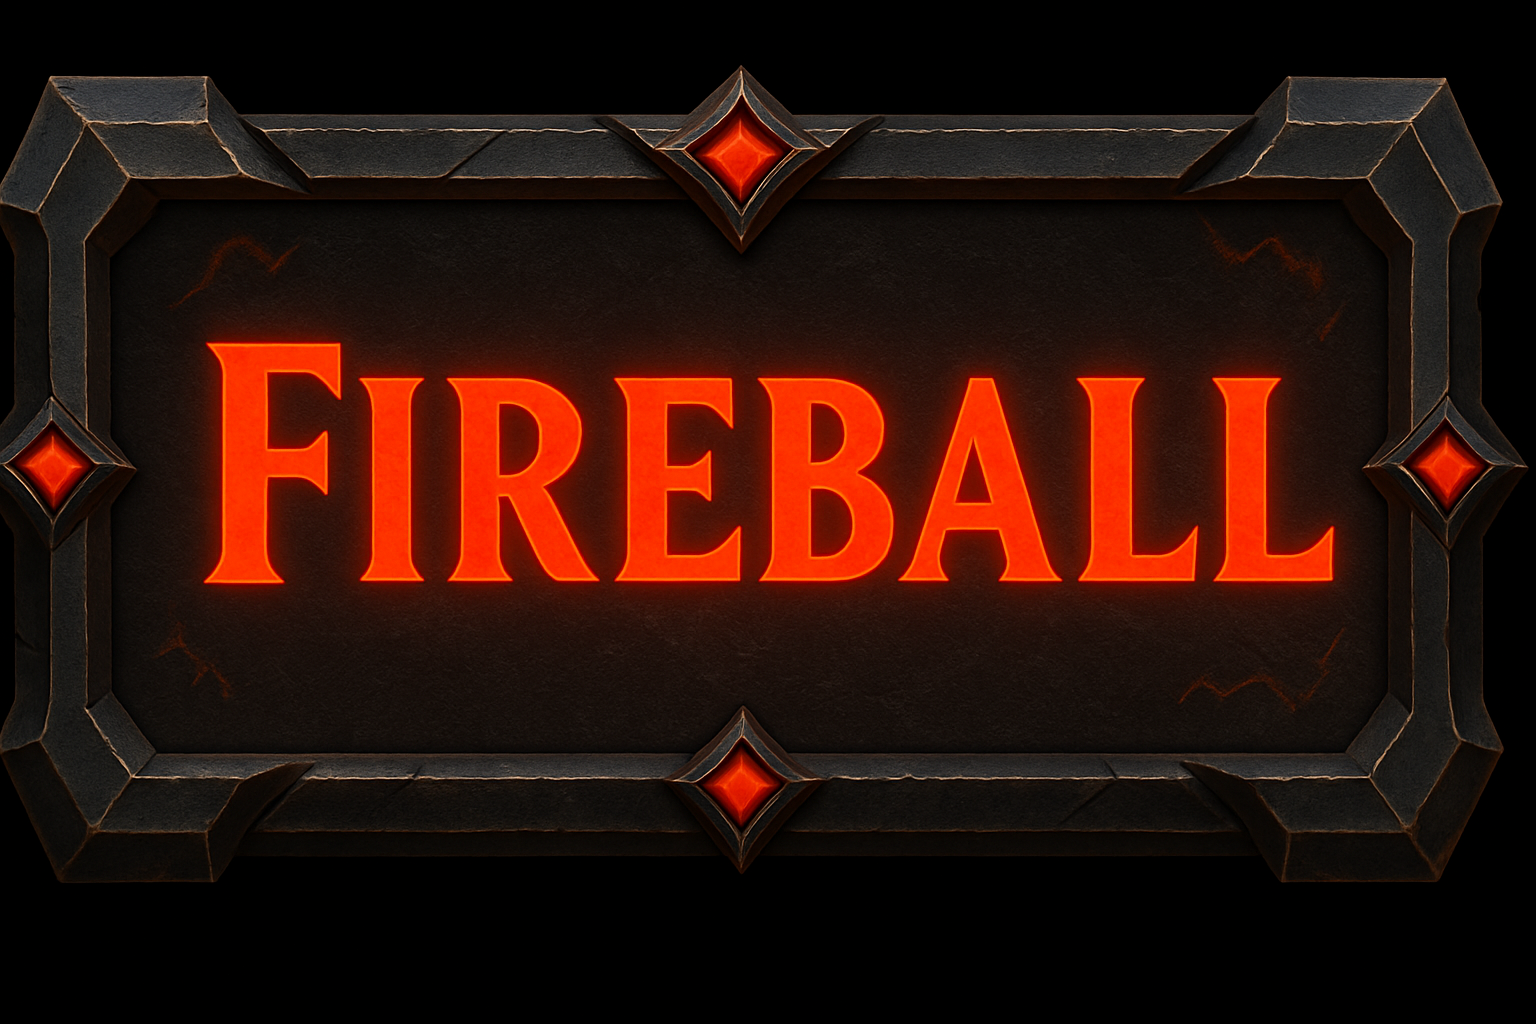
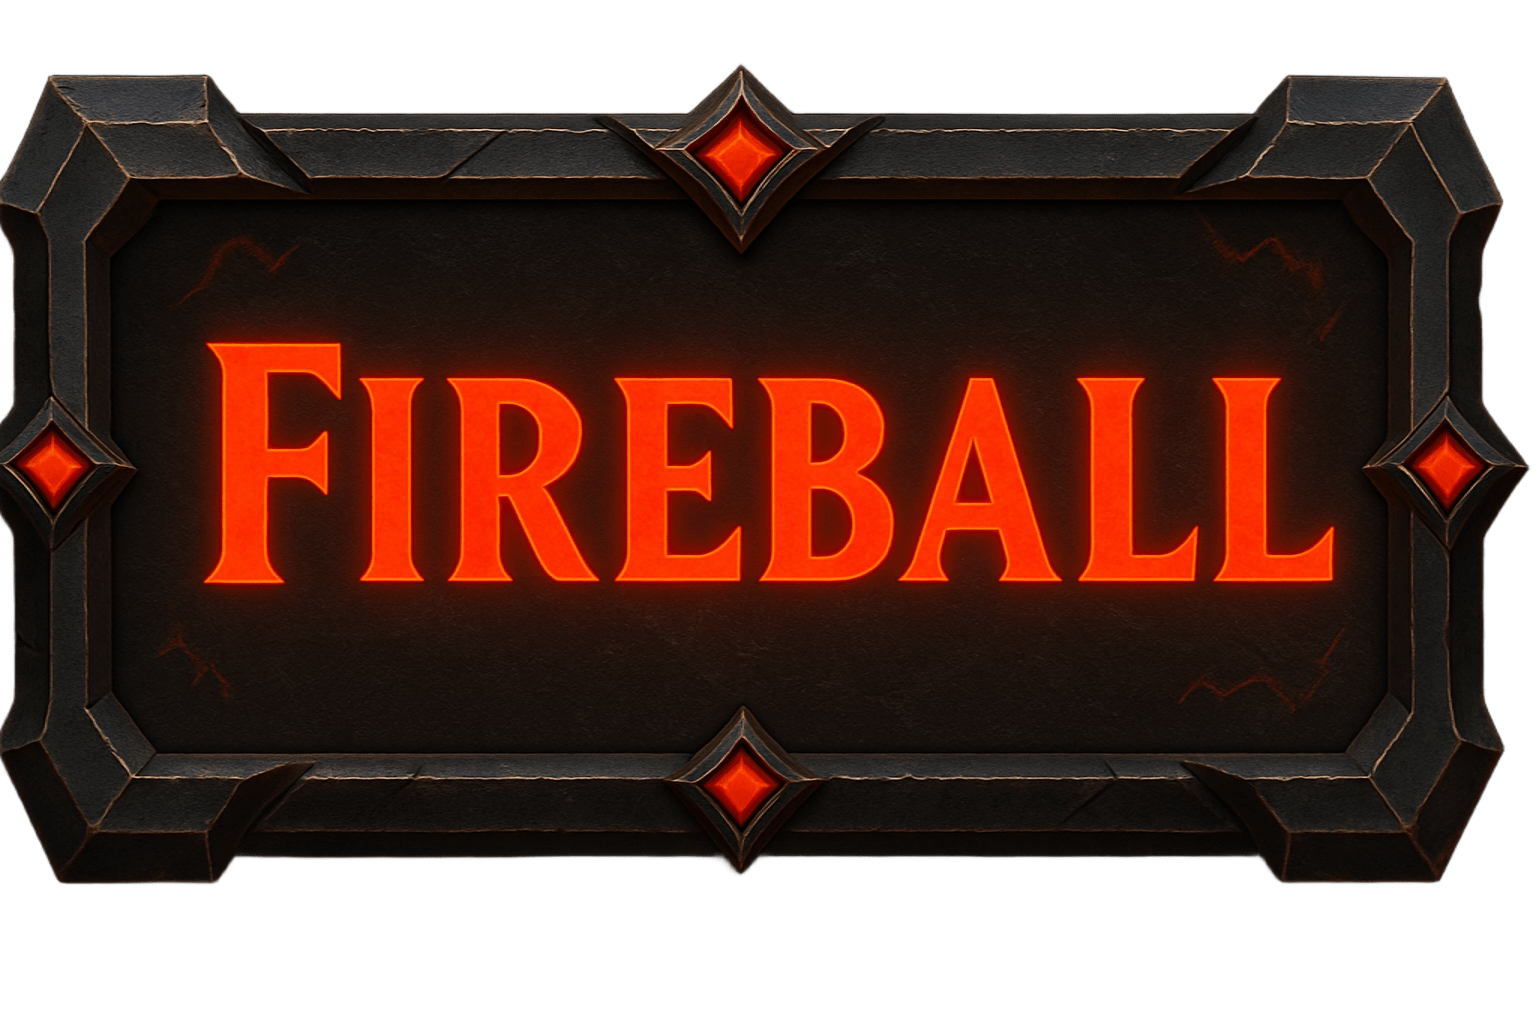
cambio de imagenes en botonera actualizado!!

Changed region(s): [[0.0, 0.0, 1.0, 1.0], [0.0, 0.5, 0.0312, 0.7188], [0.0, 0.2188, 0.0312, 0.4062]]

diff --git a/ProyectoLimpio/src/juego/Juego.java b/ProyectoLimpio/src/juego/Juego.java
@@ -21,6 +21,10 @@ public class Juego extends InterfaceJuego {
 	private Image fireball;
 	private Image silverLining;
 
+	private Image crystalExplosionRojo;
+	private Image fireballRojo;
+	private Image silverLiningRojo;
+
 	private Hechizo hechizoCrystalExplosion;
 	private Hechizo hechizoFireball;
 	private Hechizo hechizoSilverLining;
@@ -50,6 +54,11 @@ public class Juego extends InterfaceJuego {
 		this.crystalExplosion = cargarImagen("/cosas/crystalExplosion.png", 300, 210);
 		this.fireball = cargarImagen("/cosas/fireball.png", 250, 100);
 		this.silverLining = cargarImagen("/cosas/silverLining.png", 250, 100);
+
+		//Rojo!!
+		this.crystalExplosionRojo = cargarImagen("/cosas/crystalExplosionRojo.png", 250, 100);
+		this.fireballRojo = cargarImagen("/cosas/fireballRojo.png", 250, 100);
+		this.silverLiningRojo = cargarImagen("/cosas/silverLiningRojo.png", 250, 120);
 
 		this.hechizoCrystalExplosion = new Hechizo("Crystal Explosion", 30, 100);
 		this.hechizoFireball = new Hechizo("Fireball", 50, 150);
@@ -93,9 +102,10 @@ public class Juego extends InterfaceJuego {
 			piedra.dibujar(entorno);
 		}
 
-		entorno.dibujarImagen(crystalExplosion, 1120, 200, 0);
-		entorno.dibujarImagen(fireball, 1120, 400, 0);
-		entorno.dibujarImagen(silverLining, 1120, 600, 0);
+		// Si está seleccionado, mostrar la versión "Roja"
+		entorno.dibujarImagen("crystalExplosion".equals(hechizoaLanzar) ? crystalExplosionRojo : crystalExplosion, 1120, 200, 0);
+		entorno.dibujarImagen("fireball".equals(hechizoaLanzar) ? fireballRojo : fireball, 1120, 400, 0);
+		entorno.dibujarImagen("silverLining".equals(hechizoaLanzar) ? silverLiningRojo : silverLining, 1120, 600, 0);
 
 		// --- Dibuja al mago ---
 		mago.dibujar(entorno);
